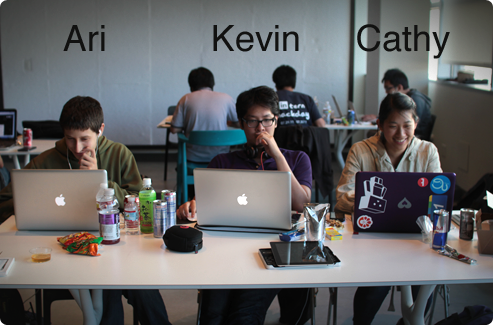
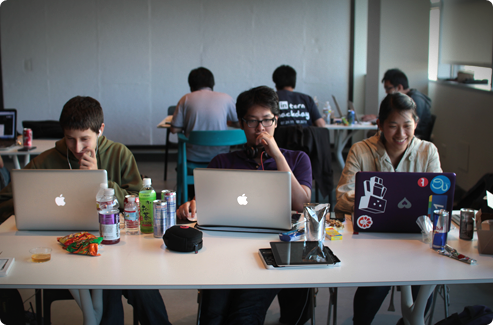
about

diff --git a/templates/index.html b/templates/index.html
@@ -64,9 +64,10 @@
 </footer>
 
 <div id="aboutModal" class="reveal-modal">
-    <h2>Brandseen</h2>
-    <p class="lead">Tagline.</p>
-    About: Brandseen is a web and iOS game that gauges your ability to recognize and reproduce brand colors. Most brands have been around for a while, and it's interesting to see the effect that advertising has on people's memories. This app was built during the 2012 Greylock Hackfest by Kevin Xu, Cathy Lee, and Ari Weinstein. (respective links to personal webpages: imkevinxu.com, cathyslee.com, ariweinstein.com) Feel free to send us feedback!
+    <h2>About Brandseen</h2>
+    <p class="lead">A visual brand identification game.</p>
+    Brandseen is a web and iOS game that gauges your ability to recognize and reproduce brand colors. Most brands have been around for a while, and it's interesting to see the effect that advertising has on people's memories. This app was built during the 2012 Greylock Hackfest by <a href="http://imkevinxu.com" target="_blank">Kevin Xu</a>, <a href="http://cathyslee.com" target="_blank">Cathy Lee</a>, and <a href="http://ariweinstein.com" target="_blank">Ari Weinstein</a>. Feel free to send us feedback or suggestions via Twitter(<a href="http://www.twitter.com/brandseen"> target="_blank">@brandseen</a>).
+    <p><img src="/media/images/photoofus.png"></p>
     <a class="close-reveal-modal">&#215;</a>
 </div>
 
